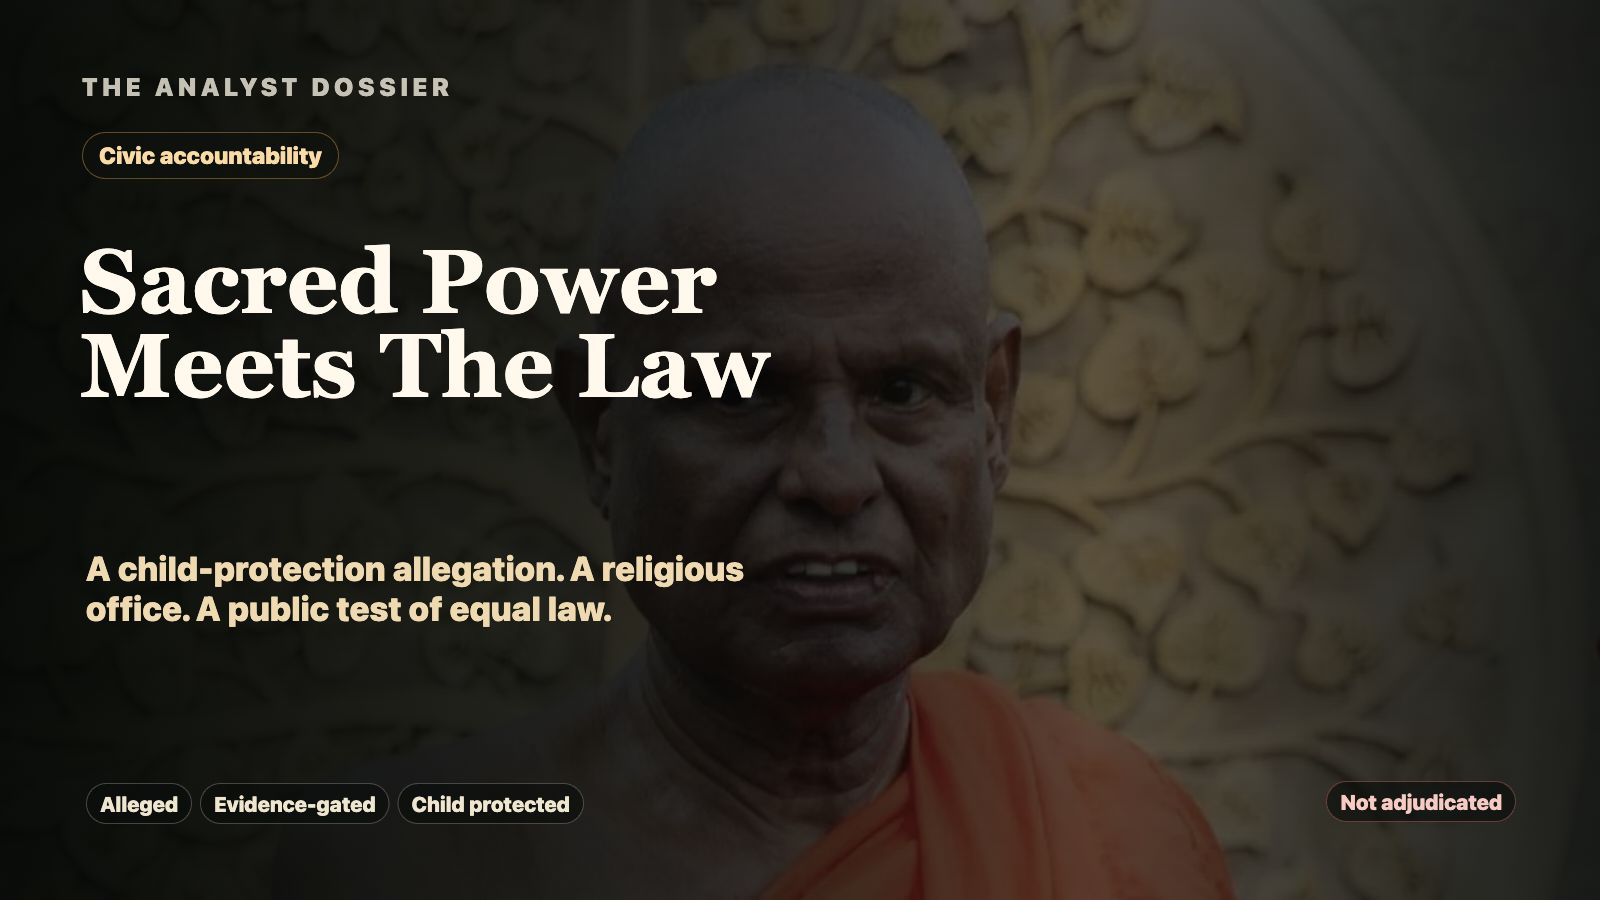
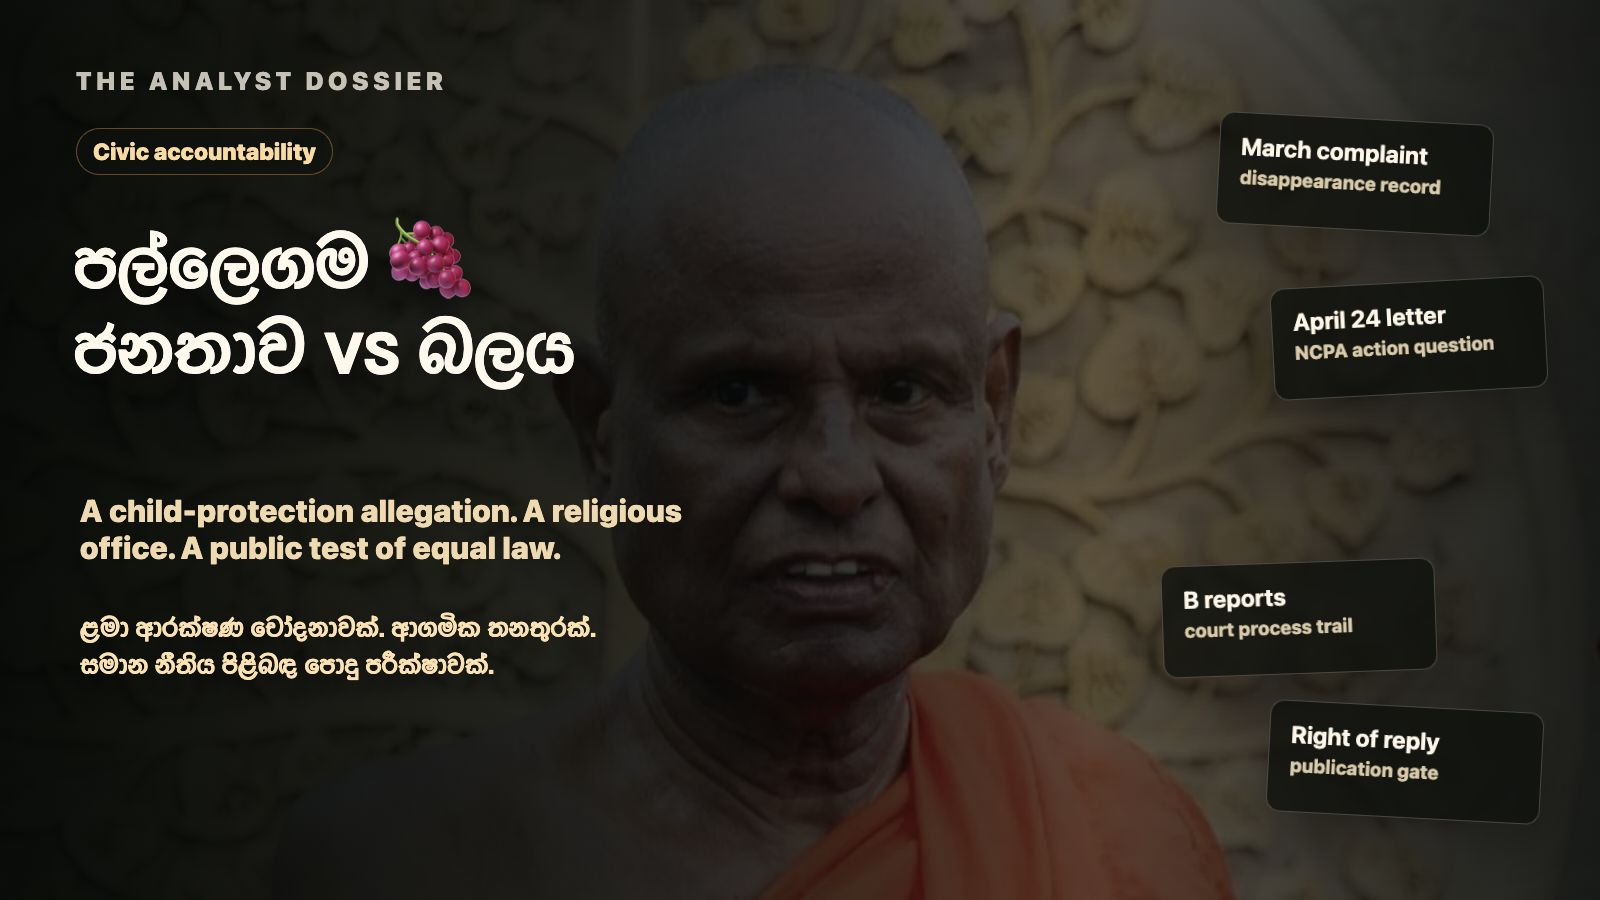
Add Sinhala Pallegama thumbnail and translation view

diff --git a/public/pallegama-hemarathana-alleged-minor-abuse/index.html b/public/pallegama-hemarathana-alleged-minor-abuse/index.html
@@ -447,6 +447,28 @@
       background: rgba(122, 176, 216, .08);
     }
     .translation-box p { font-size: 16px; }
+    .language-panel {
+      display: none;
+      max-width: 76ch;
+      margin: 0 0 34px;
+    }
+    html[data-lang="si"] .layout { display: none; }
+    html[data-lang="si"] .si-panel { display: block; }
+    .si-panel {
+      font-family: "Noto Sans Sinhala", "Sinhala Sangam MN", "Sinhala MN", "Iskoola Pota", "Malithi Web", Inter, ui-sans-serif, system-ui, sans-serif;
+    }
+    .si-panel h2,
+    .si-panel h3,
+    html[data-lang="si"] h1,
+    html[data-lang="si"] .dek {
+      font-family: "Noto Sans Sinhala", "Sinhala Sangam MN", "Sinhala MN", "Iskoola Pota", "Malithi Web", Inter, ui-sans-serif, system-ui, sans-serif;
+    }
+    .si-panel h2 { font-size: clamp(28px, 4vw, 45px); }
+    .si-panel p,
+    .si-panel li { font-size: 17px; line-height: 1.72; }
+    .si-panel .translation-box {
+      margin: 16px 0;
+    }
     .kalama {
       border: 1px solid rgba(212, 154, 58, .5);
       border-left: 6px solid var(--saffron);
@@ -533,8 +555,8 @@
     <div class="translation-status" data-translation-status aria-live="polite">
       <p><strong data-translation-label>Translation review pending.</strong> <span data-translation-note>The English text remains the controlling source until Sinhala, Tamil, and French legal/ethics review clears.</span></p>
     </div>
-    <h1>When Sacred Power Meets The Law</h1>
-    <p class="dek">The Pallegama Hemarathana case is not a verdict page. It is a civic-accountability essay about child protection, religious power, police process, media pressure, and the Buddhist duty to separate truth from status.</p>
+    <h1 data-page-title>When Sacred Power Meets The Law</h1>
+    <p class="dek" data-page-dek>The Pallegama Hemarathana case is not a verdict page. It is a civic-accountability essay about child protection, religious power, police process, media pressure, and the Buddhist duty to separate truth from status.</p>
     <div class="status-line" aria-label="Publication safeguards">
       <span>Evidence-gated</span>
       <span>Child protected</span>
@@ -794,6 +816,62 @@
         </div>
       </aside>
     </div>
+
+    <article class="language-panel si-panel" data-language-panel="si" lang="si">
+      <section>
+        <span class="kicker">සිංහල කියවීම</span>
+        <h2>පල්ලෙගම 🍇 ජනතාව vs බලය</h2>
+        <div class="translation-box">
+          <p><strong>පරිවර්තන තත්ත්වය:</strong> මෙය වැඩ කරන සිංහල පරිවර්තනයකි. චෝදනා, සැකකරු, ළමයාගේ ආරක්ෂාව, සහ බෞද්ධ/නීතිමය වචන භාවිතය පිළිබඳ පරීක්ෂාව දිගටම පවතී. දෙමළ සහ ප්රංශ පරිවර්තන එකට පසුව තල්ලු කරනු ලැබේ.</p>
+        </div>
+
+        <p class="lead">සිවුර විනයේ සංකේතයක් විය හැක. පූජනීය තනතුරක් මහජන විශ්වාසයක් විය හැක. නමුත් අධිකරණ වාර්තාවක් සත්යය සහ කටකතා අතර ඇති එකම පදනම විය හැක. වැඩිහිටියන්ට නීතිය සමාන බව ඔප්පු කිරීමට ළමයෙකුගේ පුද්ගලික වේදනාව ප්රසිද්ධ වේදිකාවක් විය යුතු නැත.</p>
+
+        <p>ජාත්යන්තර සහ දේශීය මාධ්ය වාර්තා අනුව, පල්ලේගම හේමරතන හිමියන් ළමයෙකු සම්බන්ධ ලිංගික අපයෝජන චෝදනා පිළිබඳව අත්අඩංගුවට ගෙන රක්ෂිත බන්ධනාගාරගත කර ඇතැයි වාර්තා වී ඇත. පසුව ඇප ලැබූ බවත්, චෝදනා ප්රතික්ෂේප කළ බවත් වාර්තා විය. මෙම සිංහල කියවීම කිසිදු අධිකරණ තීන්දුවක් නොවේ.</p>
+
+        <p>මෙහි ප්රශ්නය සරලය. බලවත් ආගමික තනතුරක්, ළමයෙකු සම්බන්ධ චෝදනාවක්, පොලිස් ක්රියාදාමය, ළමා ආරක්ෂක ආයතන, නීතිඥ බලය, මාධ්ය පීඩනය සහ සමාජ කෝපය එකම තැනකට පැමිණි විට ශ්රී ලංකාවේ නීතිය සමානව ක්රියා කරයිද?</p>
+
+        <p>චෝදනා චෝදනා ලෙසම තබා ගත යුතුය. සැකකරු වරදකරු බවට වචනයෙන්වත් තීන්දු නොකළ යුතුය. ළමයාගේ අනන්යතාවය හෝ පුද්ගලික තොරතුරු ප්රසිද්ධ නොකළ යුතුය. බුද්ධාගමට ද්වේෂයෙන් පහර නොදිය යුතුය. එහෙත් සිවුර, තනතුර, පූජනීයත්වය හෝ බලය නීතියට ඉහළින් තැබිය යුතු ද නොවේ.</p>
+
+        <div class="sermon">සංඝ රත්නය ආරක්ෂා කිරීම යනු ලෝකීය බලය ආරක්ෂා කිරීම නොවේ. සරණ ලෙස සංඝයා කියන්නේ තනතුරක්, ධනයක්, අනුගාමික බලයක් හෝ අධිකරණය වටා පෙනී සිටින පිරිසක් නොවේ. එය ධර්මය, විනය, ගුණය සහ මාර්ගය පිළිබඳ උසස් සංකල්පයකි.</div>
+      </section>
+
+      <section>
+        <span class="kicker">වාර්තා ඉල්ලීම</span>
+        <h2>කටකතා නොව වාර්තා</h2>
+        <p>ප්රධාන ඉල්ලීම වන්නේ වාර්තාය. මාර්තු පැමිණිල්ල, මුල් පොලිස් සටහන, අප්රේල් 24 ළමා ආරක්ෂක අධිකාරියේ ලිපිය, බී වාර්තා, අධිකරණ සටහන්, මැයි 22 ඇප නියෝගය, පොලිස් ප්රගති වාර්තා, අත්අඩංගුවට ගැනීමේ සටහන්, නීතිපති දෙපාර්තමේන්තුව සමඟ ඇති ලිපි හෝ උපදෙස්, රස පරීක්ෂණ තත්ත්ව වාර්තා, සහ අදාළ පාර්ශ්වයන්ගේ පිළිතුරු මහජන විශ්වාසයට අවශ්යය.</p>
+
+        <p>ඒ නිසා වාර්තා ඉල්ලීම බුද්ධාගමට පහරදීමක් නොවේ. එය බුද්ධාගම දේශපාලන ආවරණයක් බවට පත් නොකරන්න යන ඉල්ලීමකි. එය ළමයාගේ ආරක්ෂාව, සත්යය සහ නීතිය සමානව ක්රියා කිරීම ඉල්ලා සිටීමකි.</p>
+
+        <p>මාධ්ය හා සමාජ මාධ්ය මෙහි වැදගත්ය. සමාජ මාධ්ය නිහඬතාවය බිඳ දැමිය හැක. ඒ සමඟම එය කටකතා, අධික කෝපය, ළමයාගේ වේදනාව ප්රදර්ශනය කිරීම, හෝ ආගමික ද්වේෂය වර්ධනය කළ හැක. එබැවින් සමාජ මාධ්ය පළ කිරීම් සත්යය ඔප්පු කරන සාක්ෂි ලෙස නොව, සමාජයේ ප්රතිචාර සහ ප්රචාරණ රටා ලෙස පමණක් කියවිය යුතුය.</p>
+      </section>
+
+      <section>
+        <span class="kicker">සමාන ළමා ආරක්ෂාව</span>
+        <h2>සමාන්තර ළමයා</h2>
+        <p>මෙම නඩුව තවත් පුළුල් ප්රශ්නයක් විවෘත කරයි. ළමයෙකුට හිමි ආරක්ෂාව කිසිදු වැඩිහිටි ආයතනයකට අඩු කළ නොහැක. ඒ ආයතනය ආගමික වුවත්, පවුල් ආයතනයක් වුවත්, පෞද්ගලික නීතියක් වුවත්, දේශපාලන බලයක් වුවත් එම පදනම වෙනස් විය යුතු නැත.</p>
+
+        <div class="principle">වැඩිහිටි ආයතනයක් යම් සැලැස්මක් පූජනීය, නීත්යානුකූල, පවුලේ, ගෞරවනීය හෝ සමාජීය යැයි කියන නිසා ළමයෙකු අඩු ළමයෙකු නොවේ.</div>
+
+        <p>මුස්ලිම් විවාහ හා දික්කසාද පනත පිළිබඳ ප්රශ්නය මුස්ලිම් ජනතාවට එරෙහි චෝදනාවක් නොවේ. එය නීතිමය ආකෘතියක ළමා ආරක්ෂණ හිඩැස පිළිබඳ ප්රශ්නයකි. එමෙන්ම සාමණේර දරුවන් පිළිබඳ ප්රශ්නය බුද්ධාගමට එරෙහි චෝදනාවක් නොවේ. එය දරුවෙකුගේ තේරුම් ගැනීම, කැමැත්ත, අධ්යාපනය, ආරක්ෂිත පැමිණිලි මාර්ගය, සහ ඉවත් විය හැකි ගෞරවනීය මාර්ගය පිළිබඳ ප්රශ්නයකි.</p>
+
+        <p>දරිද්රතාවය මෙහි මූලික සම්බන්ධයකි. දරුවෙකු සාමණේර ජීවිතය "තෝරා" ගන්නේ ආහාරය, අධ්යාපනය, පවුලේ ගෞරවය, හෝ පවුලේ බර අඩු කිරීම සඳහා ඇති එකම පෙනෙන මාර්ගය නිසා නම්, එම තේරීම සම්පූර්ණයෙන් නිදහස් යැයි කිව නොහැක. එයින් සියලු සාමණේර ප්රවේශයන් අපයෝජනයක් බව නොකියයි. නමුත් වැඩිහිටි පද්ධතිය දරුවා ආරක්ෂිතද, අධ්යාපනය ලබන්නේද, ඇසෙන්නේද, සහ stigma නැතිව ඉවත් විය හැකිද යන්න ඔප්පු කළ යුතුය.</p>
+
+        <div class="principle">සිවුර නීතියට ඉහළින් නැත. පෞද්ගලික නීතිය ළමා ආරක්ෂාවට පහළින් යා නොහැක. සාමණේර දරුවෙකු සංකේතයක් වීමට පෙර ළමයෙකුය. චෝදනාවක් සාක්ෂියට වඩා ඉදිරියට යා නොහැක.</div>
+      </section>
+
+      <section>
+        <span class="kicker">කාලාම අවසානය</span>
+        <h2>නිහඬතාවය සහ ද්වේෂය අතර තෝරාගැනීමක් නොවේ</h2>
+        <p>අවසානයේ මේ ලිපියේ අරමුණ කෝපය නොවේ. නිහඬතාවය ද නොවේ. සත්යය, කරුණාව, විචාරය සහ වාර්තා ඉල්ලා සිටීමයි.</p>
+
+        <div class="kalama">
+          <p class="pali-line">Alañhi vo, kālāmā, kaṅkhituṃ, alaṃ vicikicchituṃ. Kaṅkhanīyeva pana vo ṭhāne vicikicchā uppannā.</p>
+          <p>කාලාමයෙනි, සැක කළ යුතු තැන සැක මතුවීම සුදුසුය. විචාර කළ යුතු තැන විචාර මතුවීම සුදුසුය.</p>
+          <p>ගෞරවය, කටකතා, පරම්පරාව, තනතුර, ගුරුවරයා හෝ සමාජ කෝපය නිසා පමණක් කිසිවක් පිළිගත යුතු නැත. හානියට යන දේ සහ යහපතට යන දේ විමසිය යුතුය.</p>
+        </div>
+      </section>
+    </article>
   </main>
 
   <footer>
@@ -806,28 +884,38 @@
       const status = document.querySelector('[data-translation-status]');
       const label = document.querySelector('[data-translation-label]');
       const note = document.querySelector('[data-translation-note]');
+      const pageTitle = document.querySelector('[data-page-title]');
+      const pageDek = document.querySelector('[data-page-dek]');
       const messages = {
         en: {
           label: 'English source text.',
-          note: 'Sinhala, Tamil, and French translations are being prepared under legal, Buddhist, and child-protection review.'
+          note: 'Sinhala, Tamil, and French translations are being prepared under legal, Buddhist, and child-protection review.',
+          title: 'When Sacred Power Meets The Law',
+          dek: 'The Pallegama Hemarathana case is not a verdict page. It is a civic-accountability essay about child protection, religious power, police process, media pressure, and the Buddhist duty to separate truth from status.'
         },
         si: {
-          label: 'සිංහල පරිවර්තනය පරීක්ෂාවේ ඇත.',
-          note: 'නීතිමය, බෞද්ධ සහ ළමා ආරක්ෂණ පරීක්ෂාව අවසන් වන තුරු English text එක controlling source ලෙස පවතී.'
+          label: 'සිංහල කියවීම සජීවීයි.',
+          note: 'මෙය වැඩ කරන සිංහල පරිවර්තනයකි. දෙමළ සහ ප්රංශ පරිවර්තන එකට පසුව යාවත්කාලීන කෙරේ.',
+          title: 'පල්ලෙගම 🍇 ජනතාව vs බලය',
+          dek: 'මෙය තීන්දුවක් නොවේ. මෙය ළමා ආරක්ෂාව, ආගමික බලය, පොලිස් ක්රියාදාමය, මාධ්ය පීඩනය සහ බෞද්ධ පොදු සදාචාරය පිළිබඳ civic-accountability කියවීමකි.'
         },
         ta: {
           label: 'தமிழ் மொழிபெயர்ப்பு பரிசீலனையில் உள்ளது.',
-          note: 'சட்ட, புத்தமத, குழந்தை பாதுகாப்பு பரிசீலனை முடியும் வரை English text தான் controlling source.'
+          note: 'சட்ட, புத்தமத, குழந்தை பாதுகாப்பு பரிசீலனை முடியும் வரை English text தான் controlling source. Tamil and French will be pushed together after review.',
+          title: 'When Sacred Power Meets The Law',
+          dek: 'The Pallegama Hemarathana case is not a verdict page. It is a civic-accountability essay about child protection, religious power, police process, media pressure, and the Buddhist duty to separate truth from status.'
         },
         fr: {
           label: 'Traduction française en révision.',
-          note: 'Le texte anglais reste la version de contrôle jusqu’à validation juridique, éthique et linguistique.'
+          note: 'Le texte anglais reste la version de contrôle jusqu’à validation juridique, éthique et linguistique. French and Tamil will be pushed together after review.',
+          title: 'When Sacred Power Meets The Law',
+          dek: 'The Pallegama Hemarathana case is not a verdict page. It is a civic-accountability essay about child protection, religious power, police process, media pressure, and the Buddhist duty to separate truth from status.'
         }
       };
       const setLang = (lang) => {
         if (!messages[lang]) lang = 'en';
         root.dataset.lang = lang;
-        root.lang = 'en';
+        root.lang = lang === 'si' ? 'si' : 'en';
         langSwitcher?.querySelectorAll('button[data-lang]').forEach((button) => {
           button.setAttribute('aria-pressed', button.dataset.lang === lang ? 'true' : 'false');
         });
@@ -837,6 +925,8 @@
           status.lang = lang;
           status.classList.toggle('is-visible', lang !== 'en');
         }
+        if (pageTitle) pageTitle.textContent = messages[lang].title;
+        if (pageDek) pageDek.textContent = messages[lang].dek;
         try { localStorage.setItem('pallegama-dossier-lang', lang); } catch {}
       };
       langSwitcher?.addEventListener('click', (event) => {

diff --git a/public/pallegama-hemarathana-alleged-minor-abuse/thumbnails/social-vertical-sinhala-title.html b/public/pallegama-hemarathana-alleged-minor-abuse/thumbnails/social-vertical-sinhala-title.html
@@ -1,0 +1,72 @@
+<!doctype html>
+<html lang="si">
+<head>
+  <meta charset="utf-8">
+  <meta name="viewport" content="width=device-width, initial-scale=1">
+  <title>Pallegama Sinhala Vertical Thumbnail</title>
+  <style>
+    * { box-sizing: border-box; }
+    html, body {
+      width: 1080px;
+      height: 1920px;
+      margin: 0;
+      overflow: hidden;
+      background: #090d0a;
+    }
+    body {
+      position: relative;
+      color: #fff7e7;
+      font-family: "Noto Sans Sinhala", "Sinhala Sangam MN", "Sinhala MN", "Iskoola Pota", "Malithi Web", Inter, ui-sans-serif, system-ui, sans-serif;
+      isolation: isolate;
+    }
+    .photo {
+      position: absolute;
+      inset: 0;
+      z-index: -4;
+      background-image: url("../assets/pallegama-hemarathana-context.webp");
+      background-size: cover;
+      background-position: 52% 50%;
+      filter: saturate(.9) contrast(1.08) brightness(.62);
+      transform: scale(1.06);
+    }
+    .veil {
+      position: absolute;
+      inset: 0;
+      z-index: -3;
+      background:
+        linear-gradient(180deg, rgba(5, 8, 6, .84) 0%, rgba(7, 10, 8, .42) 36%, rgba(8, 12, 9, .78) 78%, rgba(5, 8, 6, .96) 100%),
+        radial-gradient(circle at 50% 28%, rgba(212, 138, 44, .2), transparent 32%),
+        radial-gradient(circle at 18% 86%, rgba(212, 138, 44, .16), transparent 28%);
+    }
+    .edge {
+      position: absolute;
+      inset: 0;
+      z-index: -2;
+      background:
+        linear-gradient(90deg, rgba(3, 6, 4, .78), transparent 22%, transparent 78%, rgba(3, 6, 4, .78)),
+        linear-gradient(0deg, rgba(3, 6, 4, .92), transparent 24%, transparent 76%, rgba(3, 6, 4, .72));
+    }
+    h1 {
+      position: absolute;
+      left: 70px;
+      right: 66px;
+      bottom: 238px;
+      margin: 0;
+      font-size: 112px;
+      line-height: 1.12;
+      font-weight: 950;
+      letter-spacing: 0;
+      text-wrap: balance;
+      text-shadow:
+        0 18px 44px rgba(0, 0, 0, .72),
+        0 2px 0 rgba(0, 0, 0, .38);
+    }
+  </style>
+</head>
+<body>
+  <div class="photo" aria-hidden="true"></div>
+  <div class="veil" aria-hidden="true"></div>
+  <div class="edge" aria-hidden="true"></div>
+  <h1>පල්ලෙගම 🍇 ජනතාව vs බලය</h1>
+</body>
+</html>

diff --git a/public/pallegama-hemarathana-alleged-minor-abuse/thumbnails/thumbnail-options.html b/public/pallegama-hemarathana-alleged-minor-abuse/thumbnails/thumbnail-options.html
@@ -281,12 +281,48 @@
         radial-gradient(circle at 74% 44%, rgba(212, 138, 44, .2), transparent 32%);
     }
 
-    .a .brand { left: 82px; top: 72px; }
-    .a .kicker { left: 82px; top: 132px; }
-    .a .title { left: 80px; top: 240px; max-width: 760px; font-size: 90px; line-height: .93; }
-    .a .subtitle { left: 86px; top: 548px; max-width: 700px; }
-    .a .safe { left: 86px; bottom: 76px; max-width: 760px; }
+    .a .brand { left: 76px; top: 66px; }
+    .a .kicker { left: 76px; top: 128px; }
+    .a .title {
+      left: 74px;
+      top: 218px;
+      max-width: 720px;
+      font-family: "Noto Sans Sinhala", "Sinhala Sangam MN", "Sinhala MN", "Iskoola Pota", "Malithi Web", Georgia, serif;
+      font-size: 82px;
+      line-height: 1.03;
+    }
+    .a .subtitle { left: 80px; top: 492px; max-width: 650px; font-size: 31px; }
+    .a .si-subtitle {
+      position: absolute;
+      z-index: 14;
+      left: 80px;
+      top: 608px;
+      max-width: 650px;
+      margin: 0;
+      color: #ffe1ae;
+      font-family: "Noto Sans Sinhala", "Sinhala Sangam MN", "Sinhala MN", "Iskoola Pota", "Malithi Web", Inter, ui-sans-serif, system-ui, sans-serif;
+      font-size: 30px;
+      font-weight: 900;
+      line-height: 1.22;
+      text-wrap: balance;
+      text-shadow: 0 12px 28px rgba(0, 0, 0, .42);
+    }
     .a .stamp { right: 84px; bottom: 78px; border-color: rgba(189,91,84,.52); color: #ffc8c2; }
+    .a .card {
+      width: 274px;
+      min-height: 112px;
+      padding: 20px 21px;
+      background: rgba(12, 16, 12, .78);
+      border-color: rgba(255, 247, 231, .22);
+      color: #fff7e7;
+      backdrop-filter: blur(4px);
+    }
+    .a .card b { color: #fff7e7; font-size: 24px; }
+    .a .card span { color: #dcc9a6; font-size: 19px; }
+    .a .c1 { right: 108px; top: 118px; transform: rotate(3deg); }
+    .a .c2 { right: 54px; top: 282px; transform: rotate(-3deg); }
+    .a .c3 { right: 164px; bottom: 226px; transform: rotate(-2deg); }
+    .a .c4 { right: 58px; bottom: 82px; transform: rotate(3deg); }
 
     .b {
       background: #151914;
@@ -444,10 +480,13 @@
             <div class="photo"></div>
             <div class="brand">The Analyst Dossier</div>
             <div class="kicker">Civic accountability</div>
-            <h3 class="title">Sacred Power Meets The Law</h3>
+            <h3 class="title">පල්ලෙගම 🍇 ජනතාව vs බලය</h3>
             <p class="subtitle">A child-protection allegation. A religious office. A public test of equal law.</p>
-            <div class="safe"><span>Alleged</span><span>Evidence-gated</span><span>Child protected</span></div>
-            <div class="stamp">Not adjudicated</div>
+            <p class="si-subtitle">ළමා ආරක්ෂණ චෝදනාවක්. ආගමික තනතුරක්. සමාන නීතිය පිළිබඳ පොදු පරීක්ෂාවක්.</p>
+            <div class="card c1"><b>March complaint</b><span>disappearance record</span></div>
+            <div class="card c2"><b>April 24 letter</b><span>NCPA action question</span></div>
+            <div class="card c3"><b>B reports</b><span>court process trail</span></div>
+            <div class="card c4"><b>Right of reply</b><span>publication gate</span></div>
           </div>
         </div>
       </article>

diff --git a/docs/handoff/pallegama/thumbnail-idea-rounds-2026-05-25.md b/docs/handoff/pallegama/thumbnail-idea-rounds-2026-05-25.md
@@ -50,3 +50,16 @@ Status: working visual options, not final editorial clearance
 ## Recommendation
 
 Use **Option A - Dark Sermon Portrait** for the first live article thumbnail if the page needs impact. Keep **Option B - Evidence Board Over Portrait** as the safer Analyst-style alternative for contexts where due-process restraint matters more than immediate social reach.
+
+## Implemented Iteration
+
+- **Horizontal primary thumbnail:** `pallegama-thumbnail-a-dark-sermon-portrait.png`
+  - Updated to the Sinhala title `පල්ලෙගම 🍇 ජනතාව vs බලය`.
+  - Keeps the dark sermon portrait style.
+  - Removes the three bottom status labels.
+  - Adds four source-trace cards: March complaint, April 24 letter, B reports, right of reply.
+
+- **Vertical social thumbnail:** `pallegama-social-vertical-sinhala-title.png`
+  - 1080x1920.
+  - Same dark portrait treatment.
+  - Sinhala title only, no labels, no cards, no secondary copy.